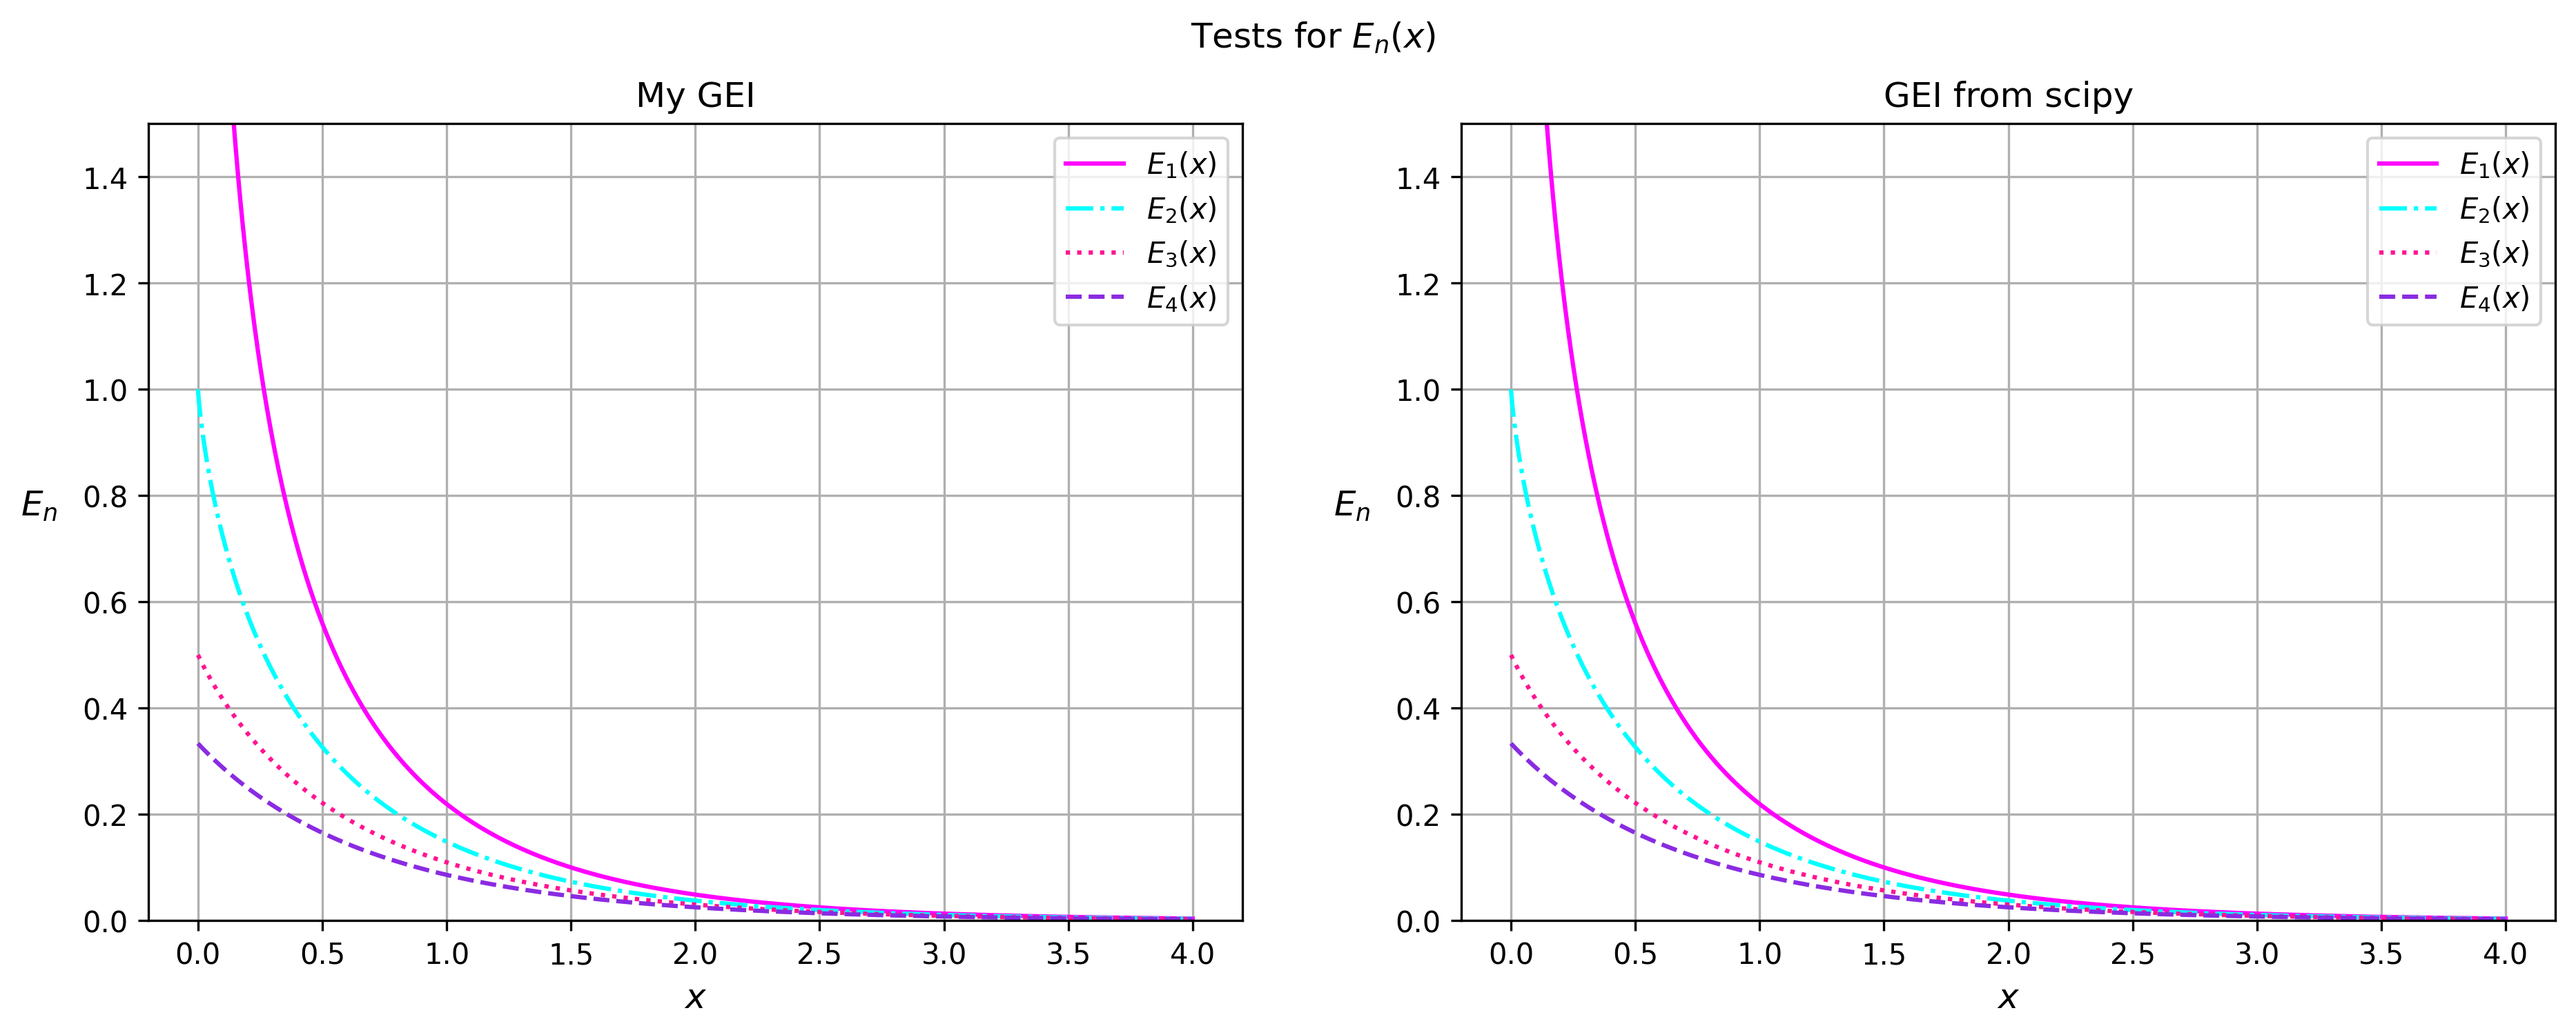
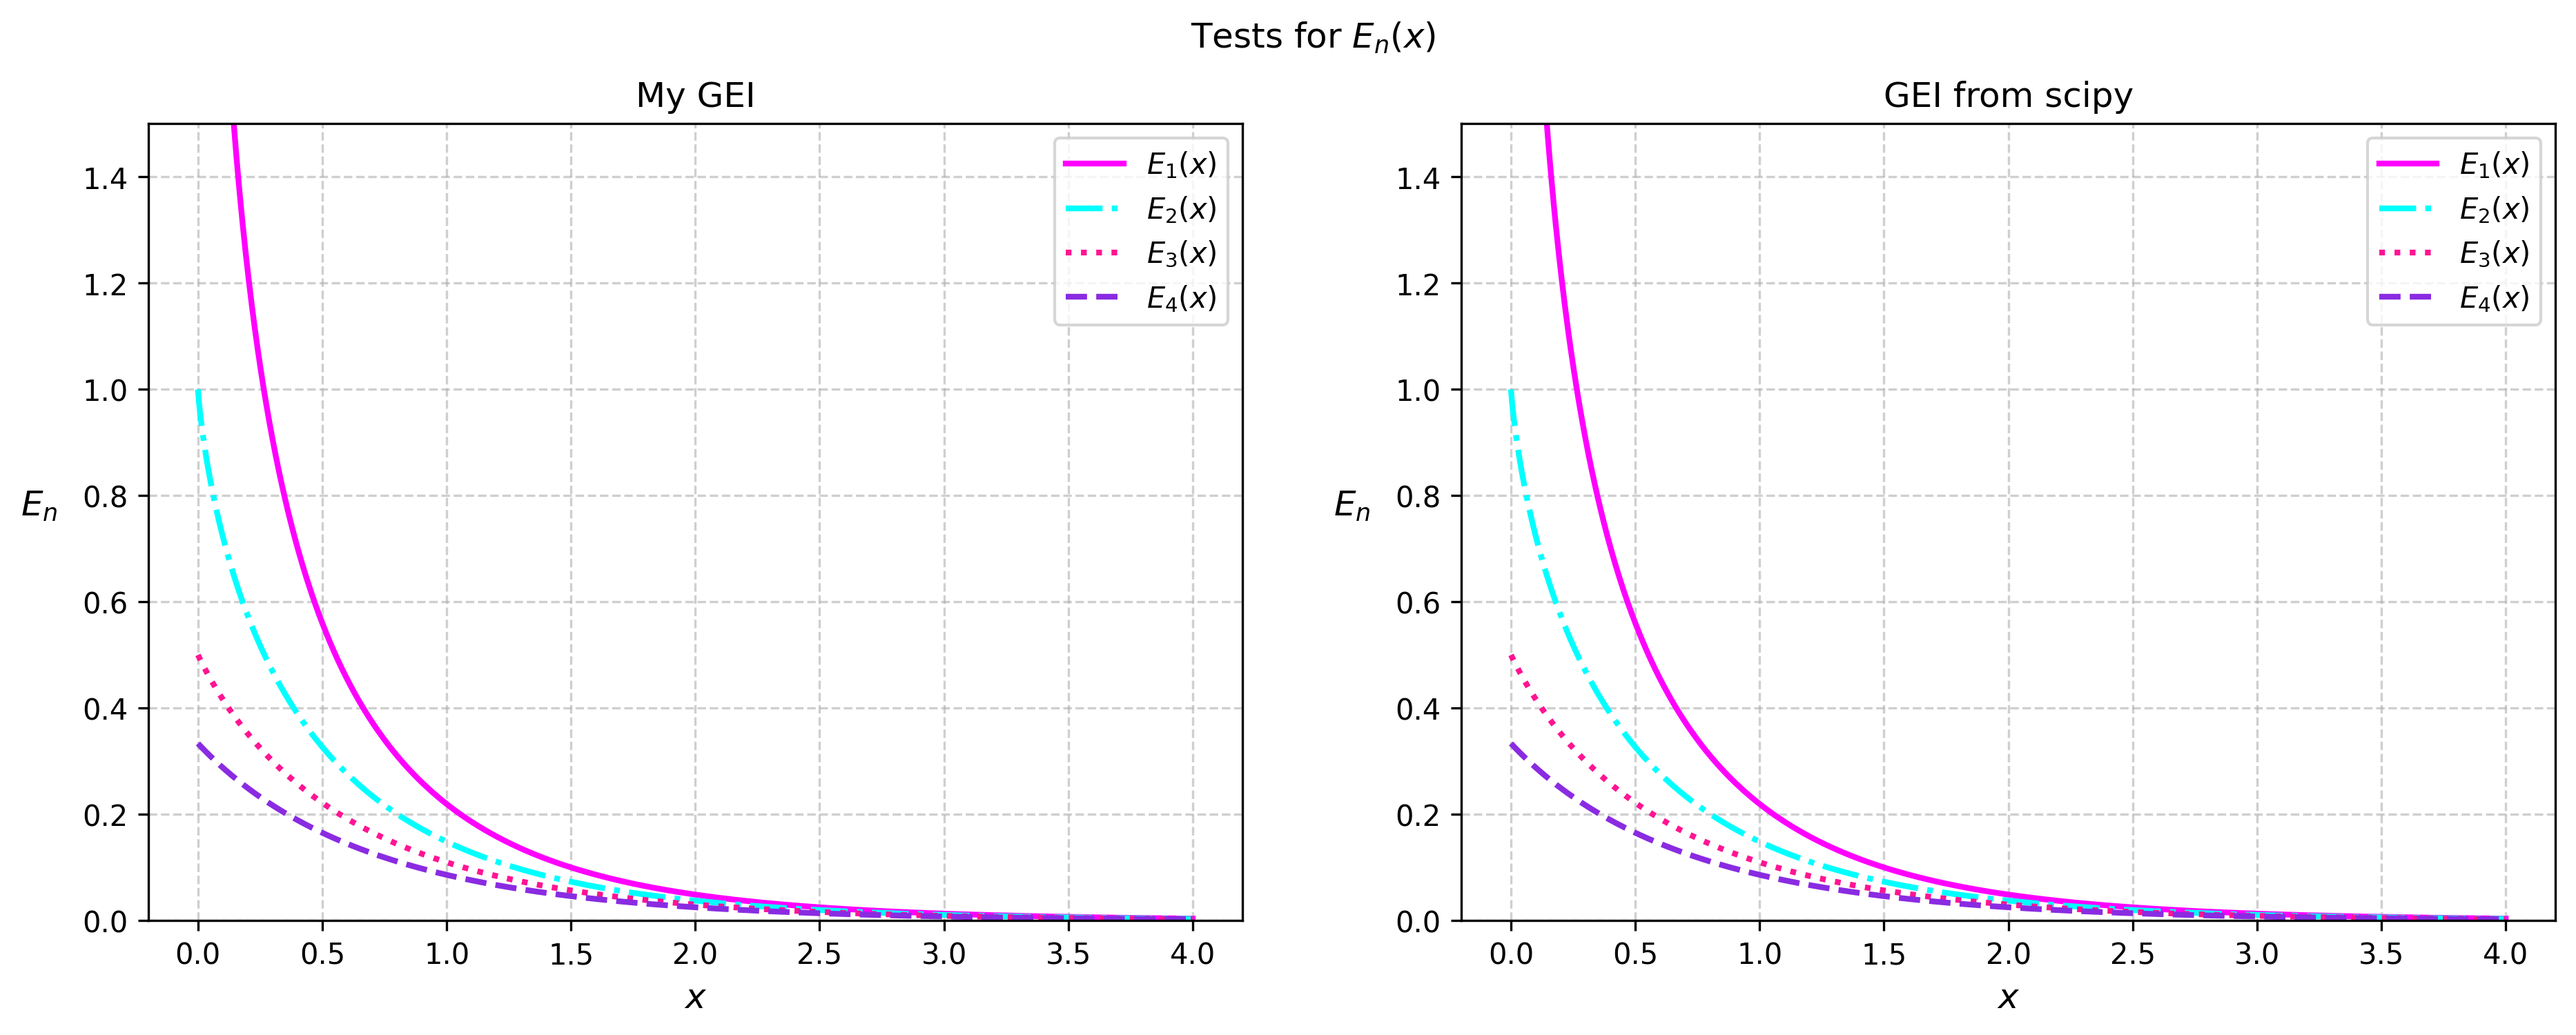
changes in graphs

diff --git a/intEq.py b/intEq.py
@@ -5,7 +5,6 @@ from matplotlib import pyplot as plt
 from typing import Callable, Dict, Optional, Tuple
 import os
 
-
 from GEI import E3
 
 class IntEq:
@@ -130,8 +129,8 @@ class IntEq:
         self.res = self.solve()
         arr = np.linspace(0, self.L, self.res.size)
         fig, axs = plt.subplots(1, 1, figsize=(10, 5))
-        axs.plot(arr[1:-2], self.res[1:-2], color='fuchsia')
-        axs.grid()
+        axs.plot(arr[1:-2], self.res[1:-2], color='fuchsia', linewidth=2)
+        axs.grid(True, linestyle='--', alpha=0.6)
         plt.title(f"Solution for $L={self.L}$, $n={self.n}$, $h={self.h:.5f}$, $s={self.s}$, "
                   f"$\\varkappa={self.kappa}$, $\\theta_r={self.theta_r}$, $I_{{\\ell}}={self.I_l}$")
         plt.xlabel(f'$x$', fontsize=12)
@@ -150,8 +149,8 @@ class IntEq:
         arr = np.linspace(0, self.L, self.res.size)[1:-2]
         errors = np.abs(self.res[1:-2] - np.ones(arr.size))
         fig, axs = plt.subplots(1, 1, figsize=(10, 5))
-        axs.plot(arr, errors, color='fuchsia')
-        axs.grid()
+        axs.plot(arr, errors, color='fuchsia', linewidth=2)
+        axs.grid(True, linestyle='--', alpha=0.6)
         plt.title(f"Error for $L={self.L}$, $n={self.n}$, $h={self.h:.5f}$, $s={self.s}$, "
                   f"$\\varkappa={self.kappa}$, $\\theta_r={self.theta_r}$, $I_{{\\ell}}={self.I_l}$")
         plt.xlabel(f'$x$', fontsize=12)

diff --git a/GEI.py b/GEI.py
@@ -95,14 +95,14 @@ if __name__ == "__main__":
         Eval = np.zeros(arr.size)
         for j, x in enumerate(arr):
             Eval[j] = En(i, x)
-        axs[0].plot(arr, Eval, color=col[i-1], label=f'$E_{i}(x)$', ls=style[i-1])
+        axs[0].plot(arr, Eval, color=col[i-1], label=f'$E_{i}(x)$', ls=style[i-1], linewidth=2)
 
     for i in ind:
-        axs[1].plot(arr, expn(i, arr), color=col[i-1], label=f'$E_{i}(x)$', ls=style[i-1])
+        axs[1].plot(arr, expn(i, arr), color=col[i-1], label=f'$E_{i}(x)$', ls=style[i-1], linewidth=2)
 
     for ax in axs:
         ax.set_ylim(0, 1.5)
-        ax.grid()
+        ax.grid(True, linestyle='--', alpha=0.6)
         ax.legend()
         ax.set_xlabel('$x$', fontsize=12)
         ax.set_ylabel('$E_n$', fontsize=12, rotation=0, labelpad=15)

diff --git a/solver.py b/solver.py
@@ -18,5 +18,5 @@ if __name__ == "__main__":
     
     sol = IntEq(data, func)
     sol.solutionGraph()
-    sol.errorGraph()
+    #sol.errorGraph()
 
